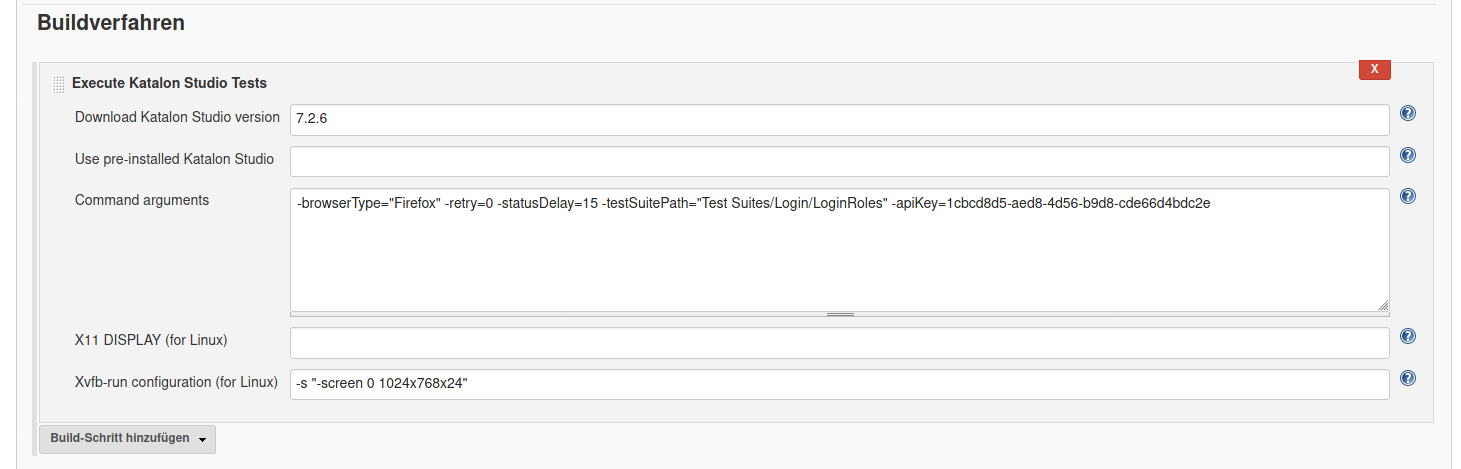
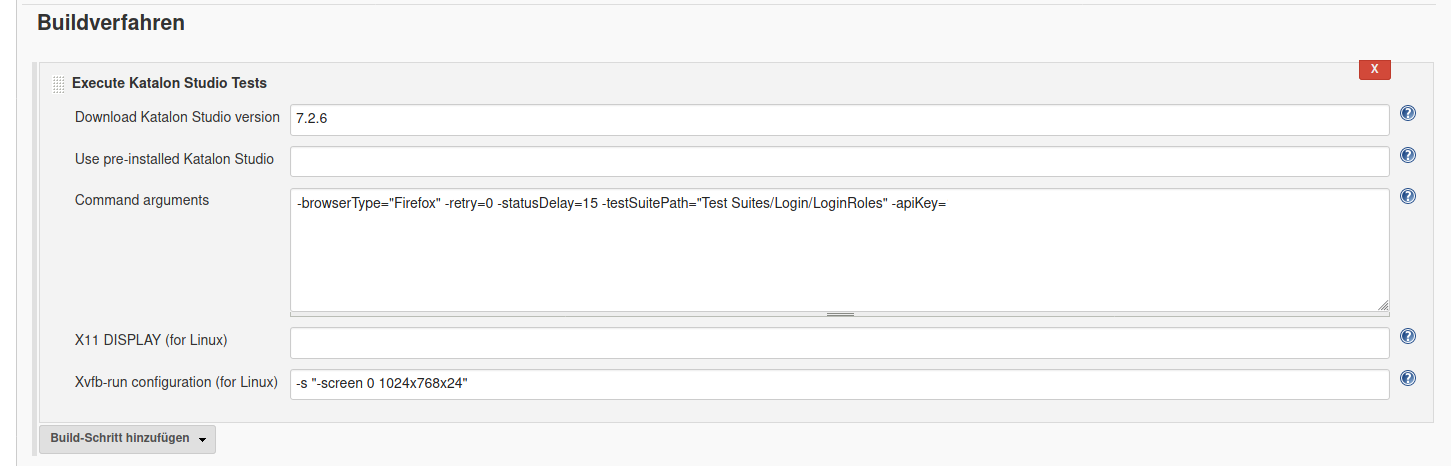
small adjustments

diff --git a/README.md b/README.md
@@ -30,6 +30,8 @@ Repository URL: URL to Katalon Sormas tests
 
 ### Build config
 
+Download Katalon Studio Version: `e.g.: 7.2.6`
+
 Command arguments: `-browserType="Firefox" -retry=0 -statusDelay=15 -testSuitePath="Test Suites/Login/LoginRoles" -apiKey=<your api key>`
 
 Xvfb-run configuration (for Linux): `-s "-screen 0 1024x768x24"`
